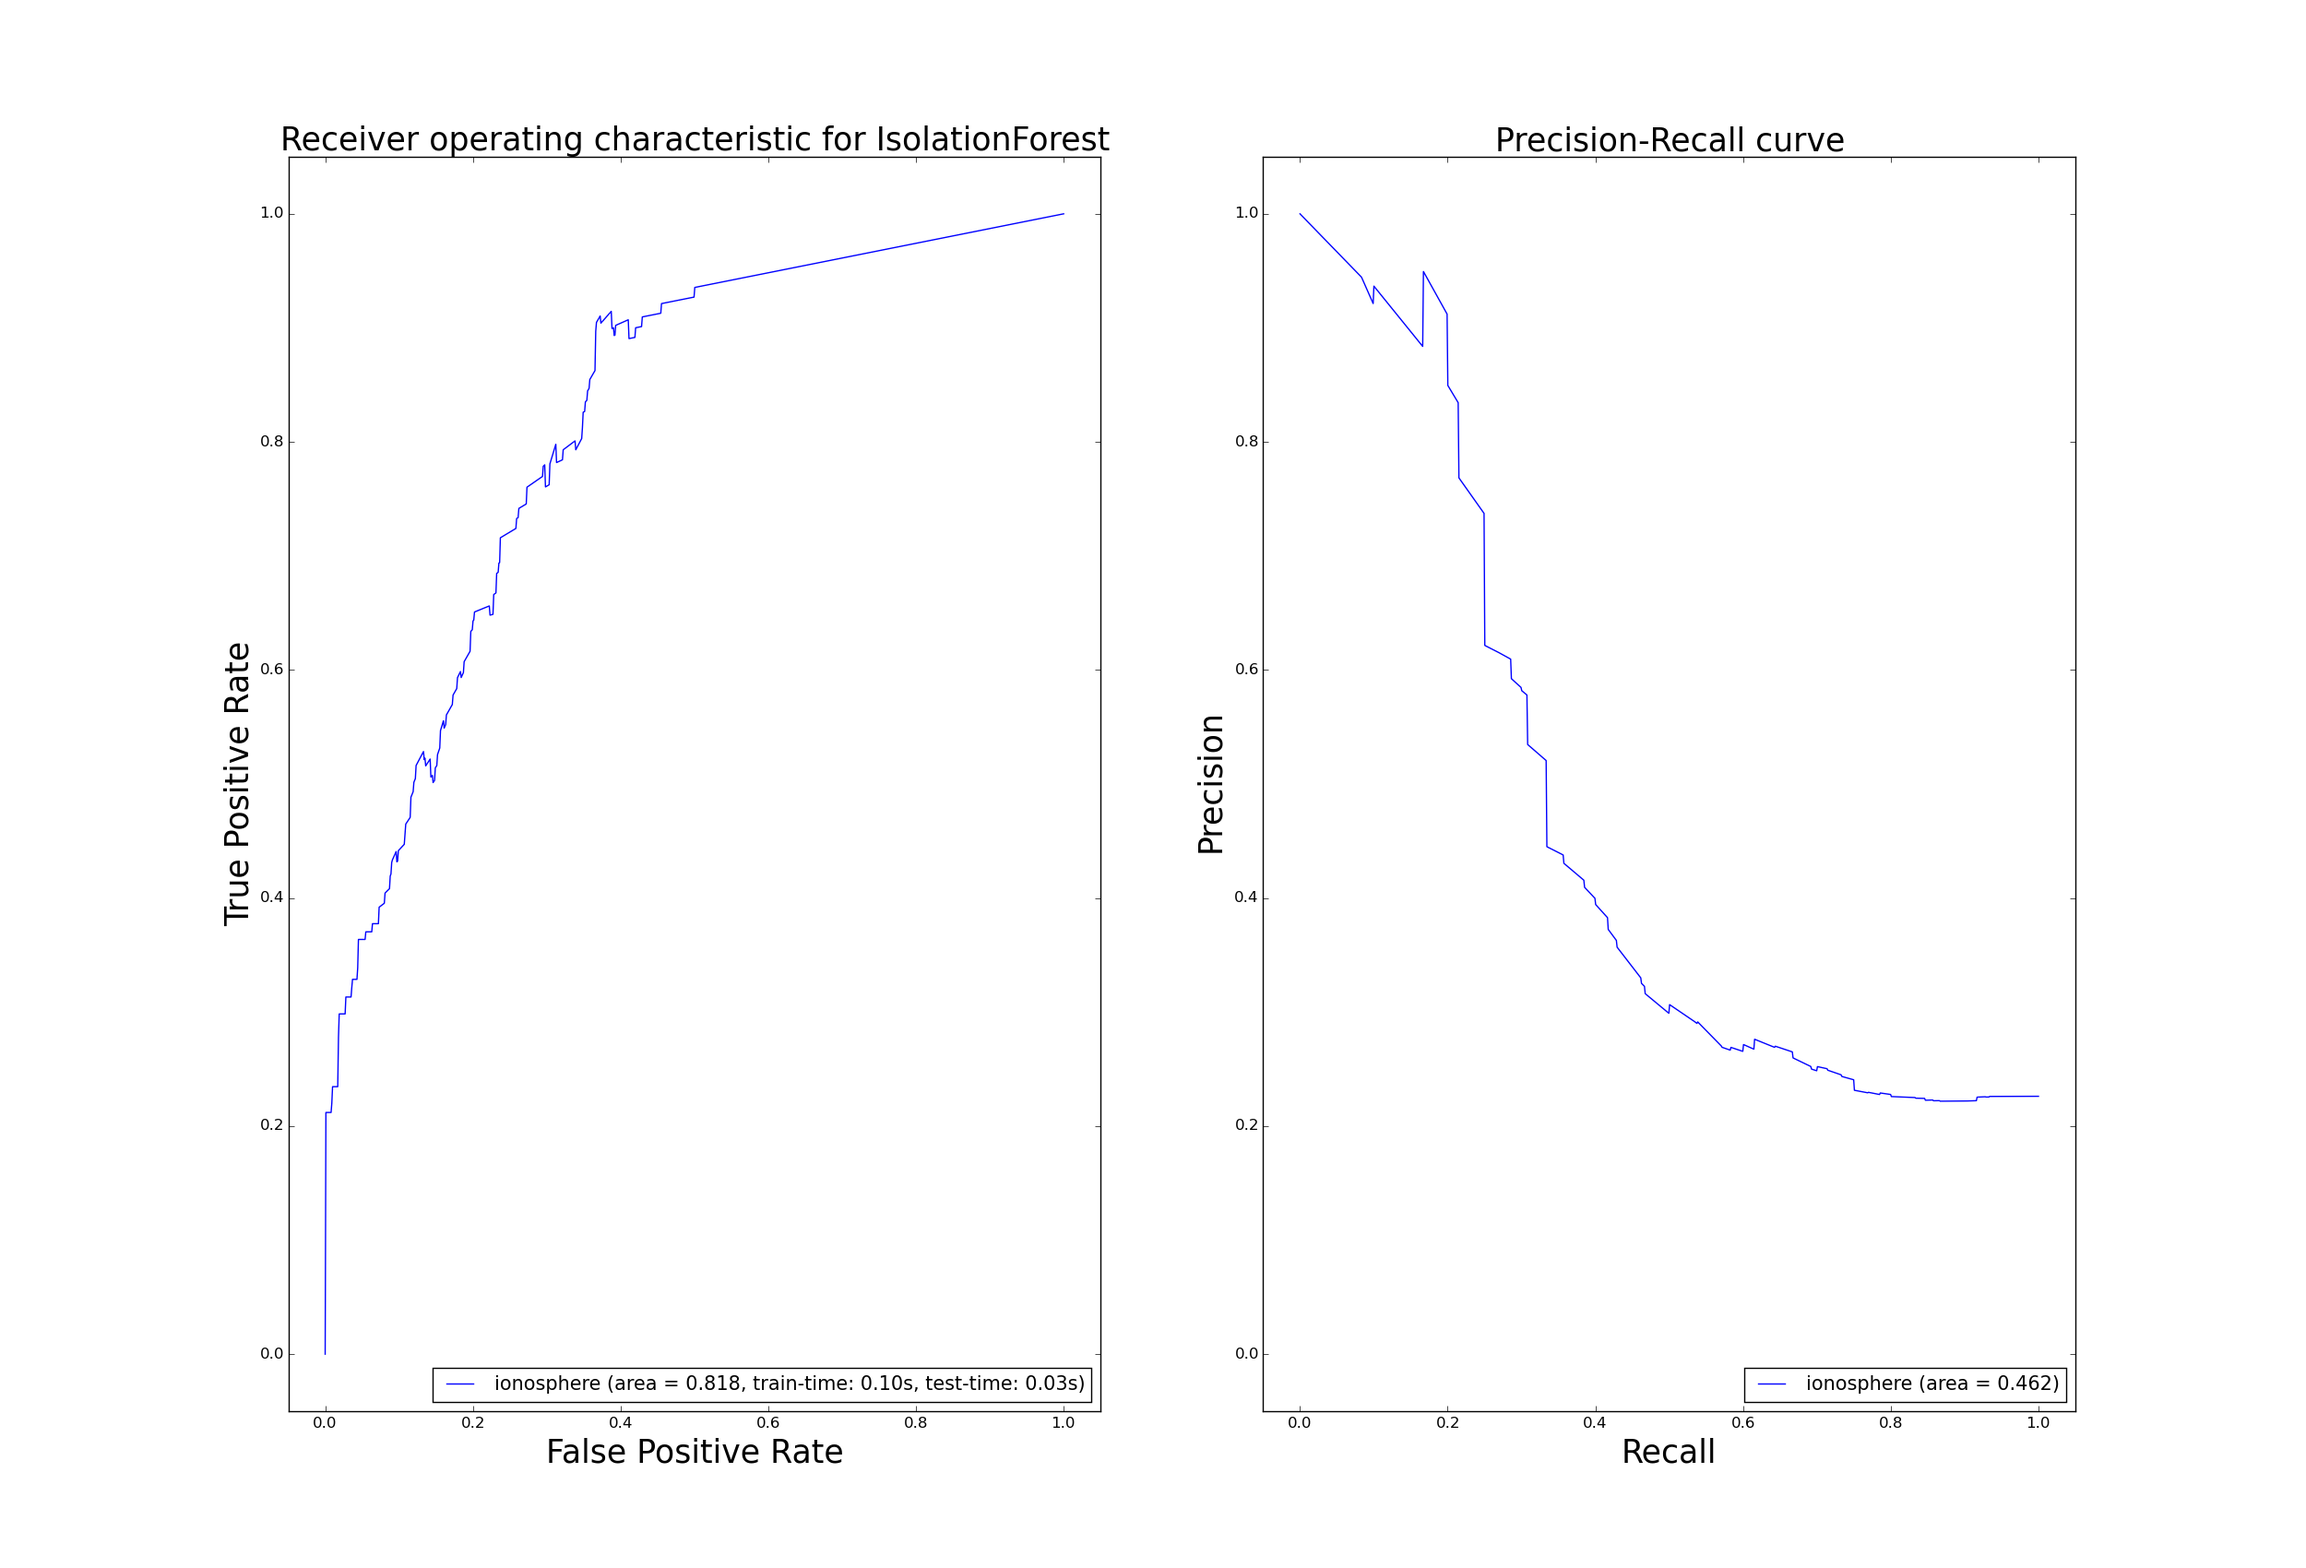
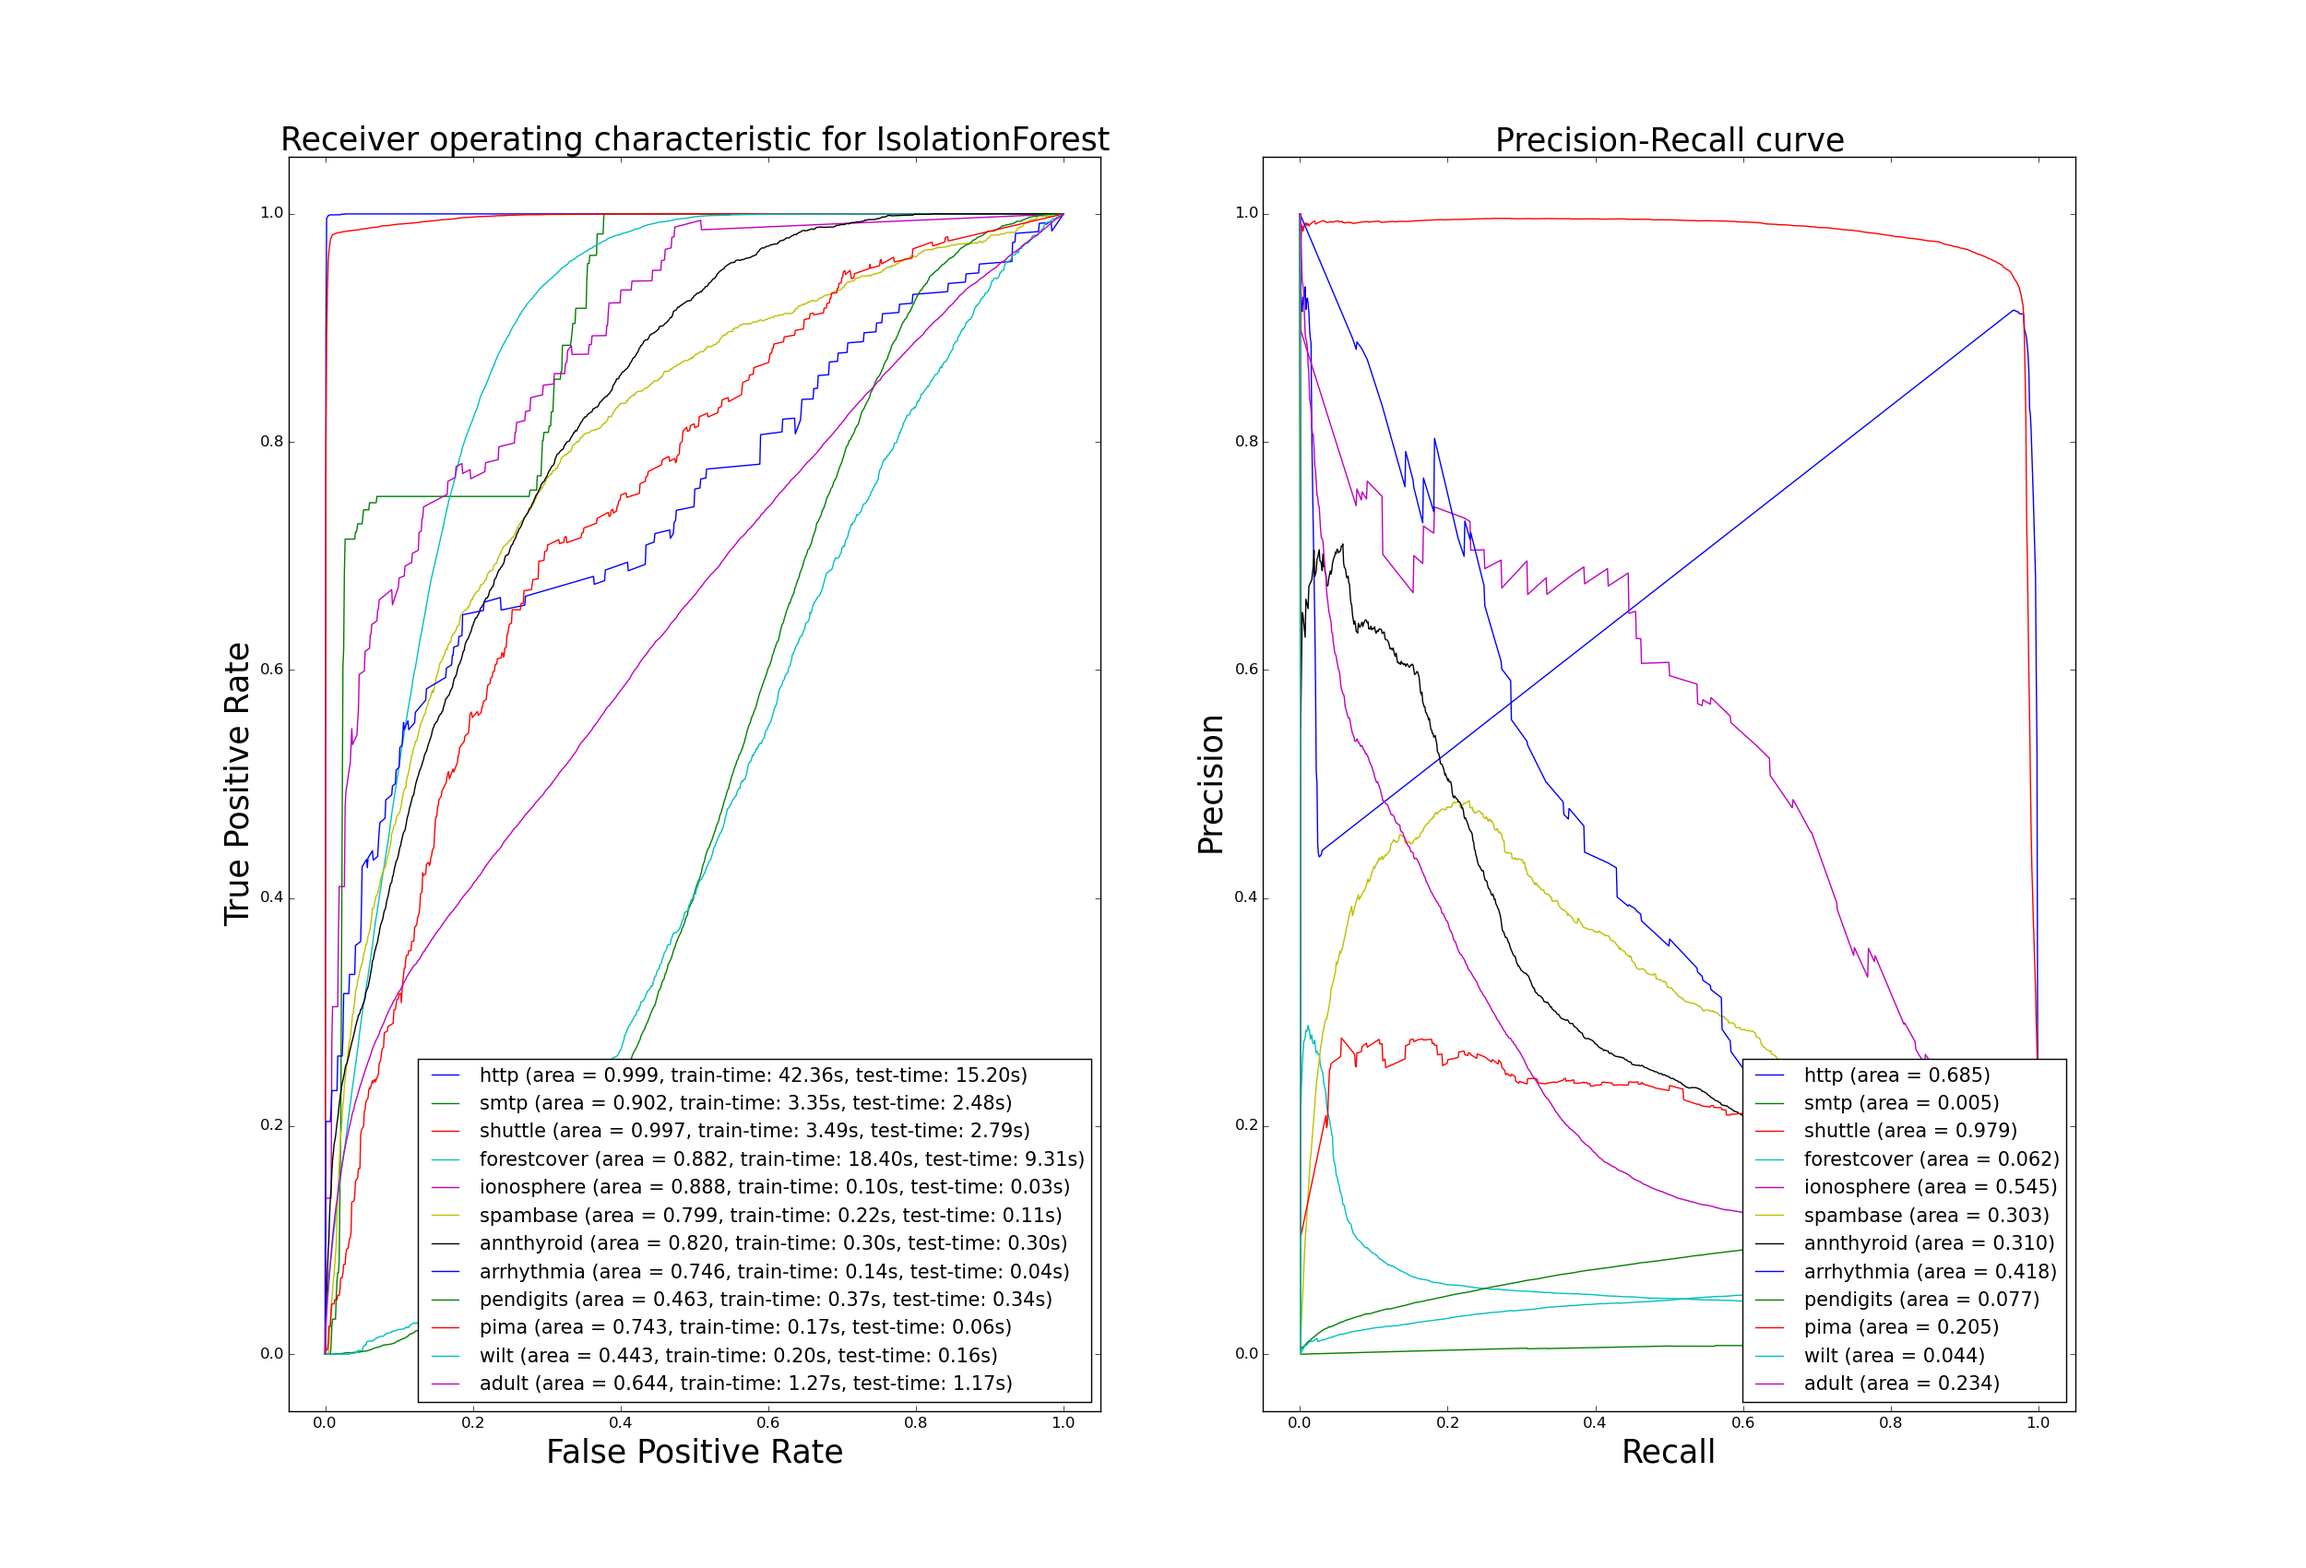
up

diff --git a/benchmarks/bench_lof.py b/benchmarks/bench_lof.py
@@ -70,9 +70,9 @@ for dat in datasets:
             y_train = y[:n_samples_train]
             y_test = y[n_samples_train:]
 
-            # training only on normal data:
-            X_train = X_train[y_train == 0]
-            y_train = y_train[y_train == 0]
+            # # training only on normal data:
+            # X_train = X_train[y_train == 0]
+            # y_train = y_train[y_train == 0]
 
             print('LocalOutlierFactor processing...')
             model = LocalOutlierFactor(n_neighbors=20)
@@ -132,4 +132,4 @@ for dat in datasets:
     plt.title('Precision-Recall curve', fontsize=25)
     plt.legend(loc="lower right", prop={'size': 15})
 
-plt.savefig('results_ocrf/bench_lof_roc_pr_supervised_factorized')
+plt.savefig('results_ocrf/bench_lof_roc_pr_unsupervised_factorized')

diff --git a/benchmarks/bench_ocsvm.py b/benchmarks/bench_ocsvm.py
@@ -75,9 +75,9 @@ for dat in datasets:
             y_train = y[:n_samples_train]
             y_test = y[n_samples_train:]
 
-            # training only on normal data:
-            X_train = X_train[y_train == 0]
-            y_train = y_train[y_train == 0]
+            # # training only on normal data:
+            # X_train = X_train[y_train == 0]
+            # y_train = y_train[y_train == 0]
 
             print('OneClassSVM processing...')
             model = OneClassSVM(cache_size=500)
@@ -137,4 +137,4 @@ for dat in datasets:
     plt.title('Precision-Recall curve', fontsize=25)
     plt.legend(loc="lower right", prop={'size': 15})
 
-plt.savefig('results_ocrf/bench_ocsvm_roc_pr_supervised_factorized')
+plt.savefig('results_ocrf/bench_ocsvm_roc_pr_unsupervised_factorized')

diff --git a/benchmarks/bench_isolation_forest.py b/benchmarks/bench_isolation_forest.py
@@ -79,9 +79,9 @@ for dat in datasets:
             y_train = y[:n_samples_train]
             y_test = y[n_samples_train:]
 
-            # training only on normal data:
-            X_train = X_train[y_train == 0]
-            y_train = y_train[y_train == 0]
+            # # training only on normal data:
+            # X_train = X_train[y_train == 0]
+            # y_train = y_train[y_train == 0]
 
             print('IsolationForest processing...')
             model = IsolationForest()
@@ -142,4 +142,4 @@ for dat in datasets:
     plt.title('Precision-Recall curve', fontsize=25)
     plt.legend(loc="lower right", prop={'size': 15})
 
-plt.savefig('results_ocrf/bench_iforest_roc_pr_supervised_factorized')
+plt.savefig('results_ocrf/bench_iforest_roc_pr_unsupervised_factorized')
